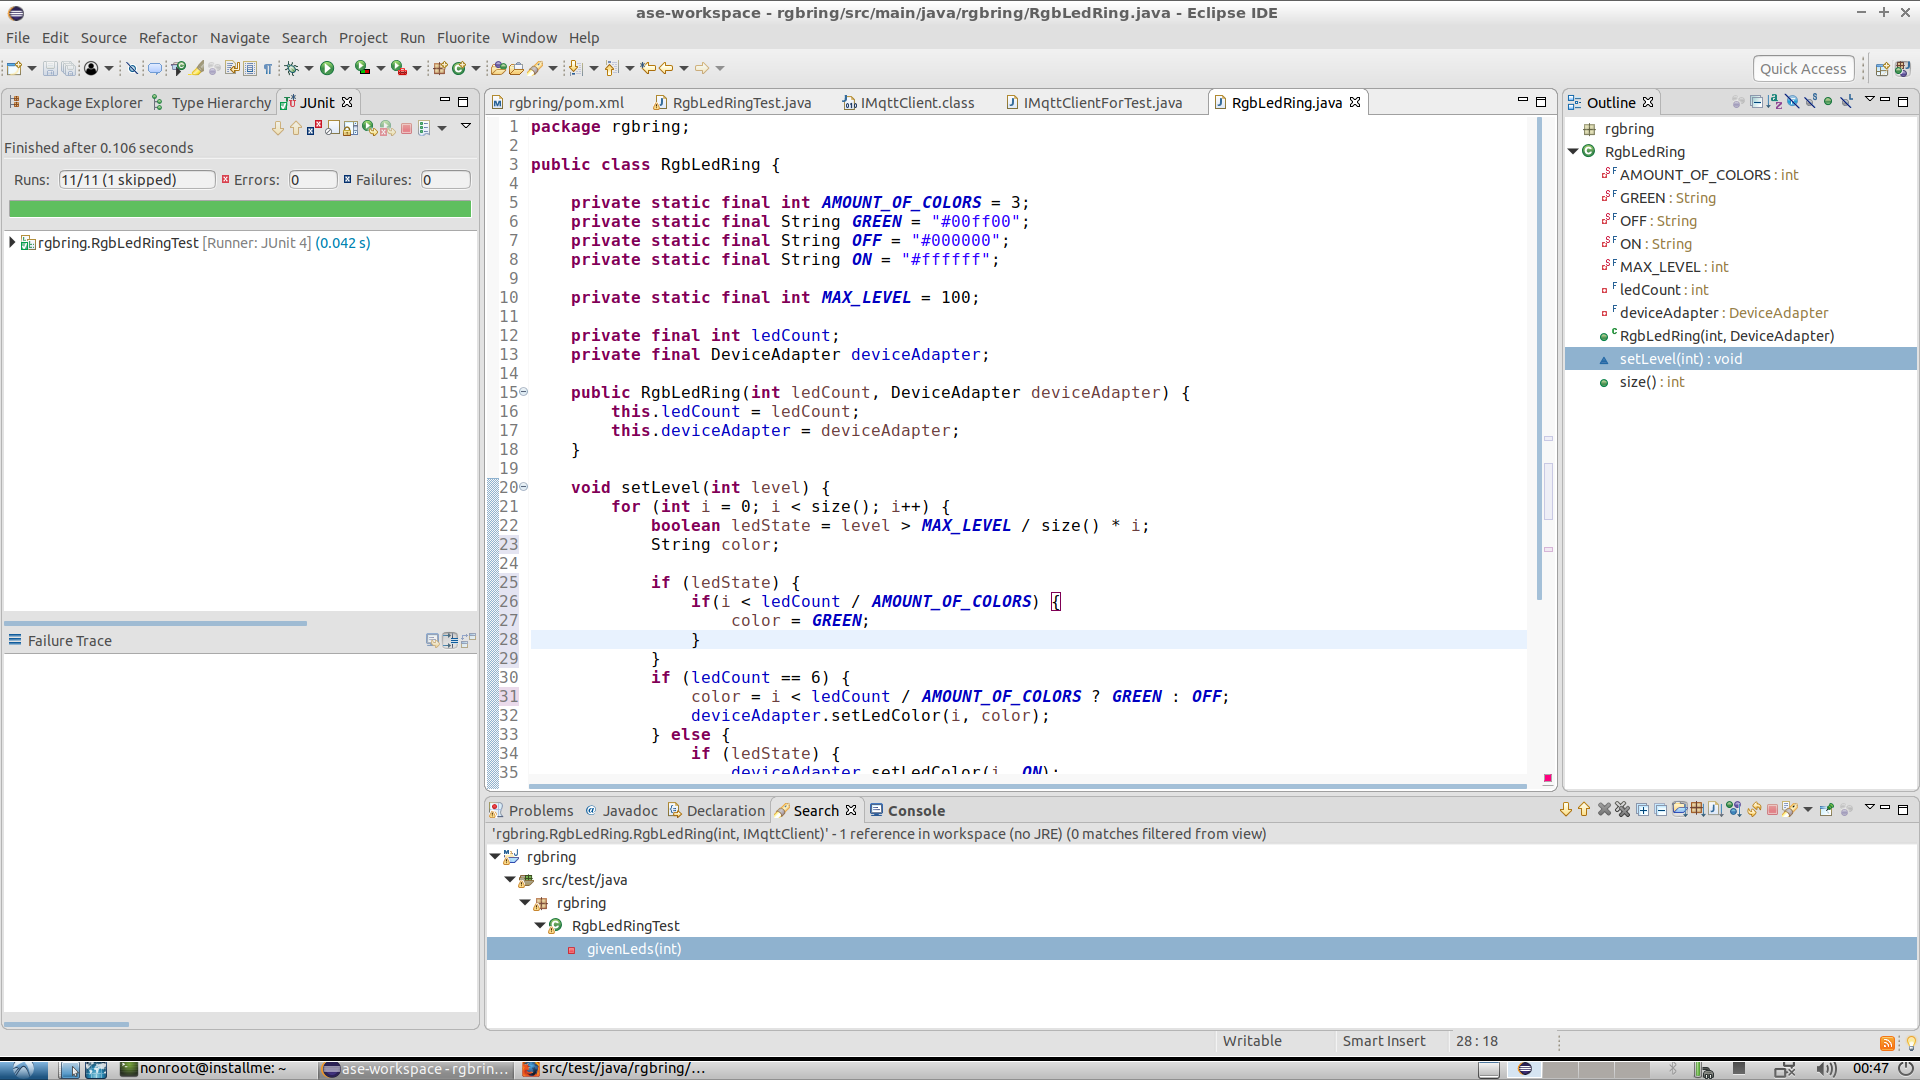
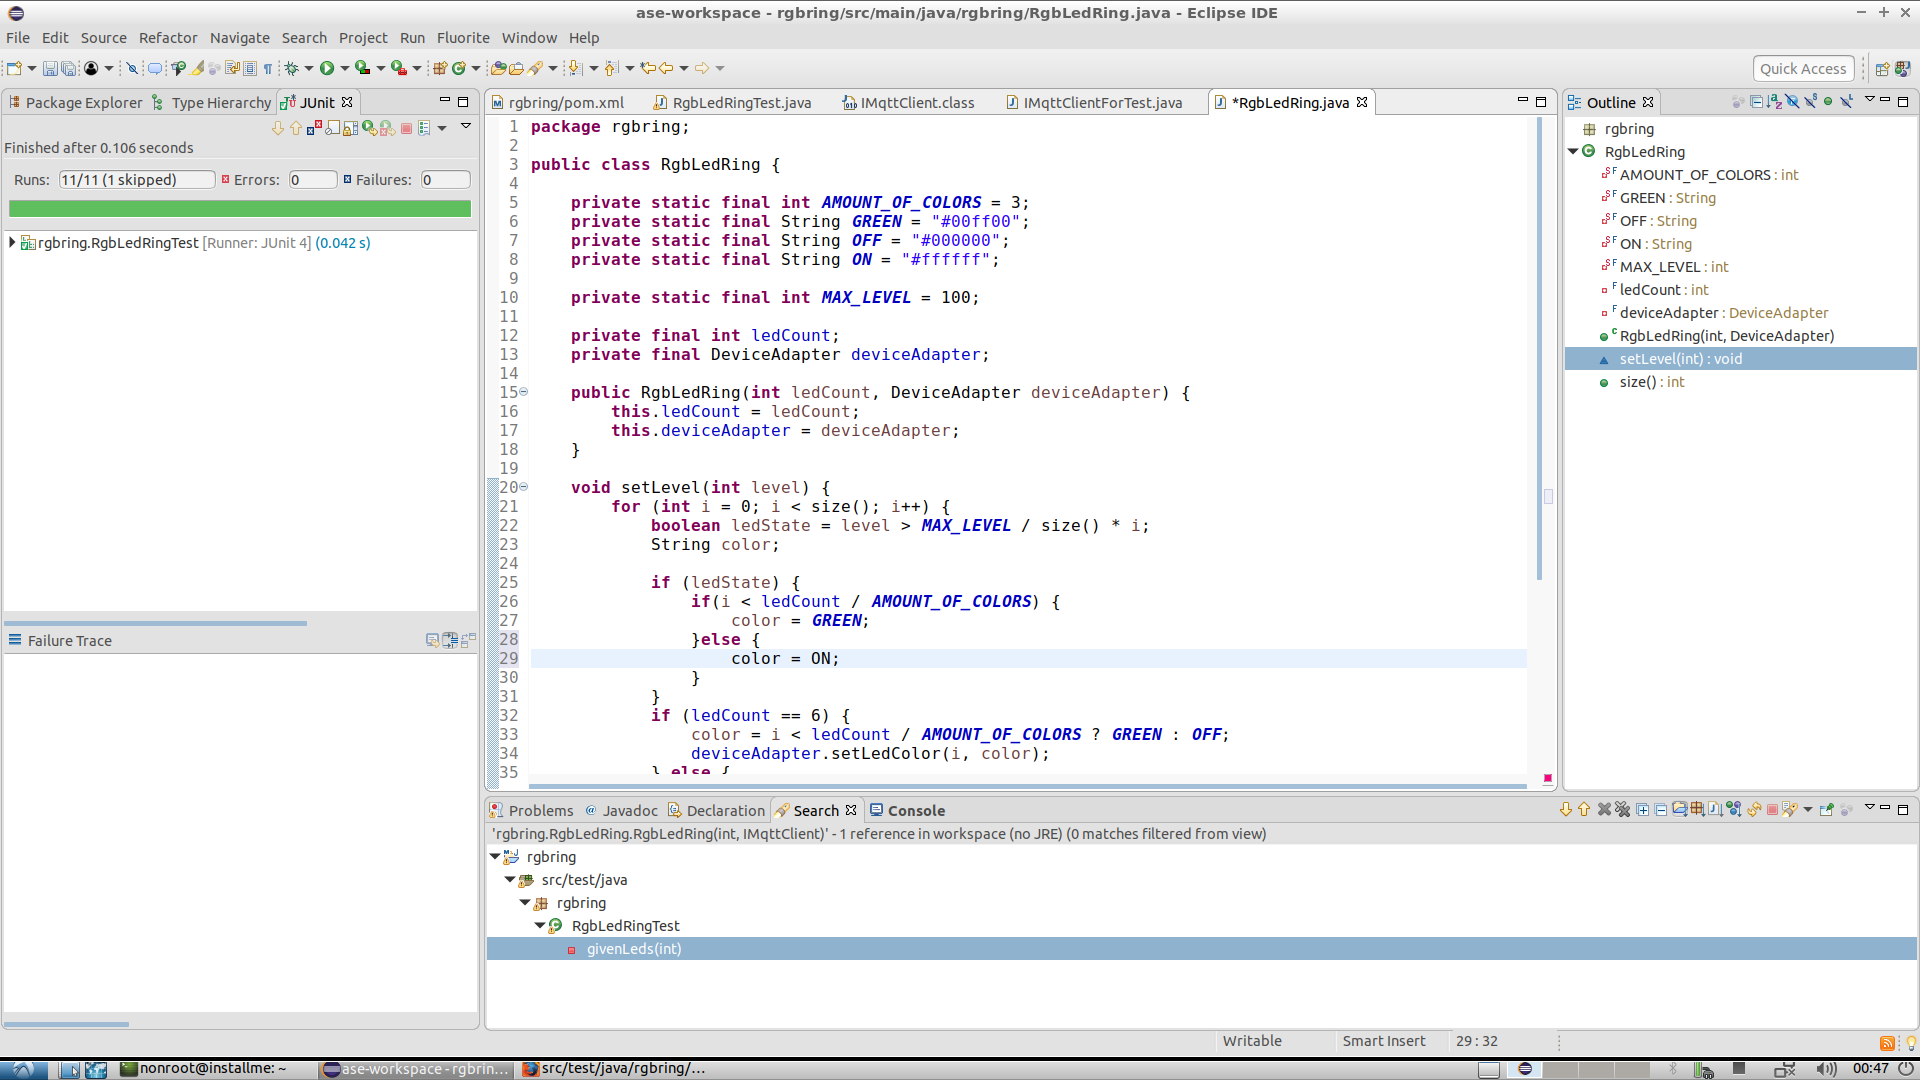
autocommit on change

diff --git a/src/main/java/rgbring/RgbLedRing.java b/src/main/java/rgbring/RgbLedRing.java
@@ -25,6 +25,8 @@ public class RgbLedRing {
 			if (ledState) {
 				if(i < ledCount / AMOUNT_OF_COLORS) {
 					color = GREEN;
+				}else {
+					color = ON;
 				}
 			}
 			if (ledCount == 6) {
